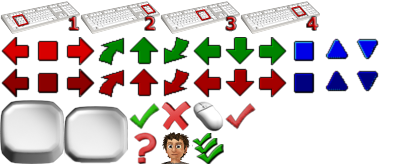
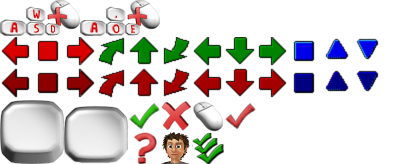
Little tweaks for the player options dialogue

Changed region(s): [[0.0, 0.0, 0.81, 0.2439]]

diff --git a/src/gui/C4StartupPlrSelDlg.cpp b/src/gui/C4StartupPlrSelDlg.cpp
@@ -1376,15 +1376,16 @@ C4StartupPlrPropertiesDlg::C4StartupPlrPropertiesDlg(C4StartupPlrSelDlg::PlayerL
 	AddElement(pBtn = new C4GUI::CallbackButton<C4StartupPlrPropertiesDlg, C4GUI::ArrowButton>(C4GUI::ArrowButton::Left, caControl.GetFromLeft(C4GUI::ArrowButton::GetDefaultWidth()), &C4StartupPlrPropertiesDlg::OnCtrlChangeLeft));
 	pBtn->SetToolTip(szTip);
 	int32_t ctrl_name_hgt = pSmallFont->GetLineHeight();
-	C4Rect ctrl_name_rect = caControl.GetFromBottom(ctrl_name_hgt); caControl.ExpandBottom(ctrl_name_hgt);
+	caControl.ExpandBottom(ctrl_name_hgt); C4Rect ctrl_name_rect = caControl.GetFromBottom(ctrl_name_hgt);
 	C4Facet &rfctCtrlPic = ::GraphicsResource.fctKeyboard; // UpdatePlayerControl() will alternatively set fctGamepad
 	AddElement(pCtrlImg = new C4GUI::Picture(caControl.GetFromLeft(rfctCtrlPic.GetWidthByHeight(caControl.GetHeight())), true));
 	pCtrlImg->SetToolTip(szTip);
 	AddElement(pBtn = new C4GUI::CallbackButton<C4StartupPlrPropertiesDlg, C4GUI::ArrowButton>(C4GUI::ArrowButton::Right, caControl.GetFromLeft(C4GUI::ArrowButton::GetDefaultWidth()), &C4StartupPlrPropertiesDlg::OnCtrlChangeRight));
 	pBtn->SetToolTip(szTip);
 	caControl.ExpandLeft(-10);
-	AddElement(pMouseBtn = new C4GUI::CallbackButton<C4StartupPlrPropertiesDlg, C4GUI::IconButton>(C4GUI::Ico_MouseOff, caControl.GetFromLeft(caControl.GetHeight()), 'M' /* 2do */, &C4StartupPlrPropertiesDlg::OnCtrlChangeMouse));
-	pMouseBtn->SetToolTip(LoadResStr("IDS_DLGTIP_PLAYERCONTROLMOUSE"));
+	// Mouse control, currently mandatory with keyboard and this will probably never change again!
+//	AddElement(pMouseBtn = new C4GUI::CallbackButton<C4StartupPlrPropertiesDlg, C4GUI::IconButton>(C4GUI::Ico_MouseOff, caControl.GetFromLeft(caControl.GetHeight()), 'M' /* 2do */, &C4StartupPlrPropertiesDlg::OnCtrlChangeMouse));
+//	pMouseBtn->SetToolTip(LoadResStr("IDS_DLGTIP_PLAYERCONTROLMOUSE"));
 	C4P.OldPrefControl = BoundBy<int32_t>(C4P.OldPrefControl, 0, C4MaxControlSet-1);
 	ctrl_name_lbl = new C4GUI::Label("CtrlName", ctrl_name_rect, ALeft, C4StartupFontClr, pSmallFont, false, false, true);
 	AddElement(ctrl_name_lbl);
@@ -1471,13 +1472,13 @@ void C4StartupPlrPropertiesDlg::UpdatePlayerControl()
 	if (control_set) fctCtrlPic = control_set->GetPicture();
 	pCtrlImg->SetFacet(fctCtrlPic);
 	if (control_set)
-		ctrl_name_lbl->SetText(control_set->GetName());
+		ctrl_name_lbl->SetText(control_set->GetGUIName());
 	else
 		ctrl_name_lbl->SetText("???");
 	// update mouse image
 	// button only available if selected control set offers mouse control
-	pMouseBtn->SetVisibility(control_set && control_set->HasMouse());
-	pMouseBtn->SetIcon((C4P.PrefMouse) ? C4GUI::Ico_MouseOn : C4GUI::Ico_MouseOff);
+//	pMouseBtn->SetVisibility(control_set && control_set->HasMouse());
+//	pMouseBtn->SetIcon((C4P.PrefMouse) ? C4GUI::Ico_MouseOn : C4GUI::Ico_MouseOff);
 }
 
 void C4StartupPlrPropertiesDlg::OnCtrlChangeLeft(C4GUI::Control *pBtn)

diff --git a/src/control/C4PlayerControl.cpp b/src/control/C4PlayerControl.cpp
@@ -619,8 +619,8 @@ C4Facet C4PlayerControlAssignmentSet::GetPicture() const
 	// get image to be drawn to represent this control set
 	// picture per set not implemented yet. So just default to out standard images
 	if (HasGamepad()) return ::GraphicsResource.fctGamepad.GetPhase(GetGamepadIndex());
-	if (HasMouse()) return ::GraphicsResource.fctMouse; // todo: probably mouse PLUS keyboard?
-	if (HasKeyboard()) return ::GraphicsResource.fctKeyboard.GetPhase(0 /* todo*/);
+//	if (HasMouse()) return ::GraphicsResource.fctMouse; // todo: probably mouse PLUS keyboard? // todo cancelled
+	if (HasKeyboard()) return ::GraphicsResource.fctKeyboard.GetPhase(Game.PlayerControlUserAssignmentSets.GetSetIndex(this));
 	return C4Facet();
 }
 
